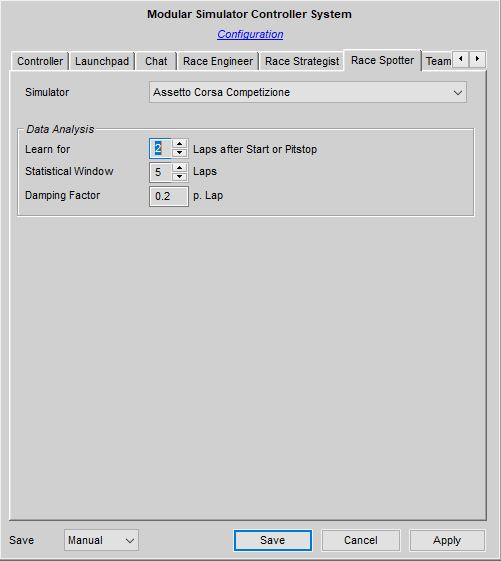
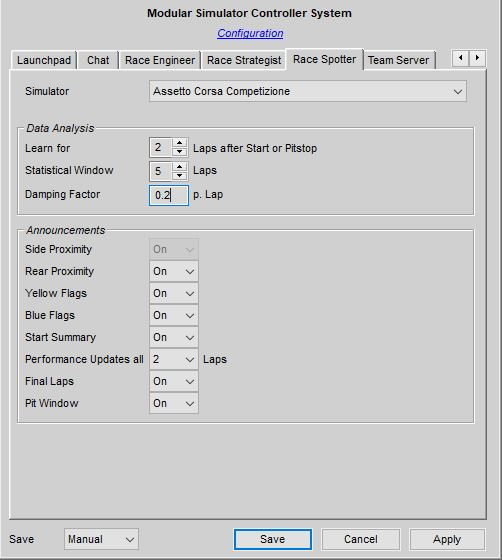
Documentation Update

diff --git a/Docs/Virtual Race Spotter.md b/Docs/Virtual Race Spotter.md
@@ -14,31 +14,35 @@ The Spotter will give you critical and in most cases real time information about
 
 1. Proximity Alerts
 
-This real time information will highlight other cars on your side and directly behind you. Elisa will warn you about cars on your left and on your right (as well as three wide situations) and will also inform you, when the situation has cleared up. A warning will also be issued, when a car is very near to your back of your car, typically closing in for a pass maneuver. This may give you the opportunity to respond with countermeasures.
+   This real time information will highlight other cars on your side and directly behind you. Elisa will warn you about cars on your left and on your right (as well as three wide situations) and will also inform you, when the situation has cleared up. A warning will also be issued, when a car is very near to your back of your car, typically closing in for a pass maneuver. This may give you the opportunity to respond with countermeasures.
 
 2. Yellow Flag Warnings
 
-When a yellow flag has been raised, you will get a warning from Elisa. Typically, you will get information about the sector, which is under yellow and sometimes also the distance into the track, where the incident happend. You will get a special warning for full course yellow and Elisa will also information you, when the yellow phase hase ended and the track is green again.
+   When a yellow flag has been raised, you will get a warning from Elisa. Typically, you will get information about the sector, which is under yellow and sometimes also the distance into the track, where the incident happend. You will get a special warning for full course yellow and Elisa will also information you, when the yellow phase hase ended and the track is green again.
 
 3. Blue Flag Warnings
 
-Once a lapping car appears behind, you will get a blue flag warning. This typically appears, when the faster car is less than 2 seconds behind. If there is also a direct opponent currently behind you, you will be informed about that as well, so that you can be cautios to not let this car pass together with the lapping car.
+   Once a lapping car appears behind, you will get a blue flag warning. This typically appears, when the faster car is less than 2 seconds behind. If there is also a direct opponent currently behind you, you will be informed about that as well, so that you can be cautios to not let this car pass together with the lapping car.
 
 4. Pit Window Information
 
-Elisa will inform you when the timed window or the designated lap for a required pitstop arrived. Elisa will inform you also, when the pit closes again.
+   Elisa will inform you when the timed window or the designated lap for a required pitstop arrived. Elisa will inform you also, when the pit closes again.
 
 5. Start Performance Summary
 
-You will get an update whether you gained or lost places during the start phase a few laps into the race.
+   You will get an update whether you gained or lost places during the start phase a few laps into the race.
 
 6. Periodic Performance Update
 
-Elisa observes your direct opponents behind and in front of you and informs you, whether you can catch up the car in front or whether you need to pay attention to the car behind you.
+   Elisa observes your direct opponents behind and in front of you and informs you, whether you can catch up the car in front or whether you need to pay attention to the car behind you.
 
 7. Last laps announcement
 
-You will get an announcement a few laps before the end of the race.
+   You will get an announcement a few laps before the end of the race.
+
+All these alerts and announcements can be individually configured or disabled with the configuration tool for each simulator. Please consult the [corresponding documentation](https://github.com/SeriousOldMan/Simulator-Controller/wiki/Installation-&-Configuration#tab-race-spotter) for more information. 
+
+![](https://github.com/SeriousOldMan/Simulator-Controller/blob/main/Docs/Images/Configuration%20Tab%2011.JPG)
 
 Please note, that not every simulation will support all these capabilities and that the behaviour will be very different in each simulation. This is due to the fact, that the provided data differs heavily between the different simulations. Please see the section below for detailed information.
 

diff --git a/Docs/Installation & Configuration.md b/Docs/Installation & Configuration.md
@@ -341,9 +341,11 @@ Similar as with the tab for the *Race Engineer* and for the *Race Strategist*, t
 
 ![](https://github.com/SeriousOldMan/Simulator-Controller/blob/main/Docs/Images/Configuration%20Tab%2011.JPG)
 
-You can customize some parts of the statistical algorithms of Elisa, the Virtual Race Spotter. The first field defines the number of laps, Elisa uses to populate its data collection. During this period, most of the higher functions of Elisa are not available (an exception are the proximity alerts for nearby cars in dense traffic, this functionality is available rightaway from the start of the engines), but the predictions of dynamic values will be much more precise afterwards. The second field, *Statistical Window*, is also quite important. It defines the number of recent laps, which are used for each and every statistical calculation, for example the standard deviation of lap times. If you set this to **0**, almost all statistical calculations will fail, what e.g. means that traffic based tactical recommendations will not be available. The next field, *Damping Factor*, can be used to influence the calculation weight for each of those recent laps. If you want all laps to be considered with equal weight, set this to *0*, whereas a value o *0.2* will weigh each lap with *20%* less than the more recent lap before.
+You can customize some parts of the statistical algorithms of Elisa, the Virtual Race Spotter, in the first group of fields. The first field defines the number of laps, Elisa uses to populate its data collection. During this period, most of the higher functions of Elisa are not available (an exception are the proximity alerts for nearby cars in dense traffic, this functionality is available rightaway from the start of the engines), but the predictions of dynamic values will be much more precise afterwards. The second field, *Statistical Window*, is also quite important. It defines the number of recent laps, which are used for each and every statistical calculation, for example the standard deviation of lap times. If you set this to **0**, almost all statistical calculations will fail, what e.g. means that traffic based tactical recommendations will not be available. The next field, *Damping Factor*, can be used to influence the calculation weight for each of those recent laps. If you want all laps to be considered with equal weight, set this to *0*, whereas a value o *0.2* will weigh each lap with *20%* less than the more recent lap before.
 
 Note: The settings for loading and saving the *Race Settings* specified on *Race Engineer* tab apply for the Virtual Race Spotter as well, as long as no other assistants are active.
+
+In the second group of fields labeled *Announcements*, you can enable or disable the individual messages and announcements of Elisa for the driver. If you don't like the short summary for the race start Elisa gives you after the first few laps, you can simply switch it off. Only the side prximity alerts are always enabled, since this is the main functionality of a Spotter, right? Most announcements can only be enabled or disabled, but for the periodic performance update you can set the number of laps between each update as well. For more information about the individual announcements and alerts, please see the [Spotter documentation](https://github.com/SeriousOldMan/Simulator-Controller/wiki/Virtual-Race-Spotter#alerts--information).
 
 ### Tab *Team Server*
 

diff --git a/Docs/Releases.md b/Docs/Releases.md
@@ -2,9 +2,13 @@
 
   1. Bugfixes, as always
   2. Documentation updates, as always
-  3. Support for the new Spotter Assistant has been added for rFactor 2.
+  3. Support for rFactor 2 has been added for the new Spotter Assistant.
   4. The capabilities of the Spotter has been extended again. It now informs about your performance after the first few laps and also periodically during the race. It also announces you the final laps. See the [updated documentation](https://github.com/SeriousOldMan/Simulator-Controller/wiki/Virtual-Race-Spotter#alerts--information) for more information.
   5. Fix for wonky Spotter side alerts in RaceRoom Racing Experience.
+  6. Improved the Strategy Simulation by introducing an alorithm which includes tyre wear, fuel level induced laptime variations and the effects of ECU maps at the same time.
+  7. Introduced new tyre compound types (colors) in all applications. Yellow, Green, Soft, Medium and Hard compounds are now supported, when the corresponding simulation supports them.
+  8. The Race Spotter can now be fully configured with regards to the issued warnings and announcements. See the [documentation](https://github.com/SeriousOldMan/Simulator-Controller/wiki/Installation-&-Configuration#tab-race-spotter) for more information.
+  9. Import of cold tyre pressures is now supported for iRacing in "Race Settings" and the Race Assistants.
 
 ## 3.8.8-release 02/11/22
 

diff --git a/Docs/Backlog.md b/Docs/Backlog.md
@@ -3,7 +3,6 @@
   2. [Target: V4.x][ACC Plugin] Hot switching between different sets of ABS and TC settings using voice commands
   3. [Target: V4.x][RF2 Plugin] Better integration with the weather forecast data of *rFactor 2*
   4. [Tactile & Motion Feedback Plugin] Definition of feedback settings for different tracks and cars, selectable by the touch of a button
-  5. [Target: V3.9.x] Add spotter engine for RF2
 
 #### Strategy
   1. [Target: V3.x - V4.0] Using the technology of Jona, implement a Race Strategy Expert
